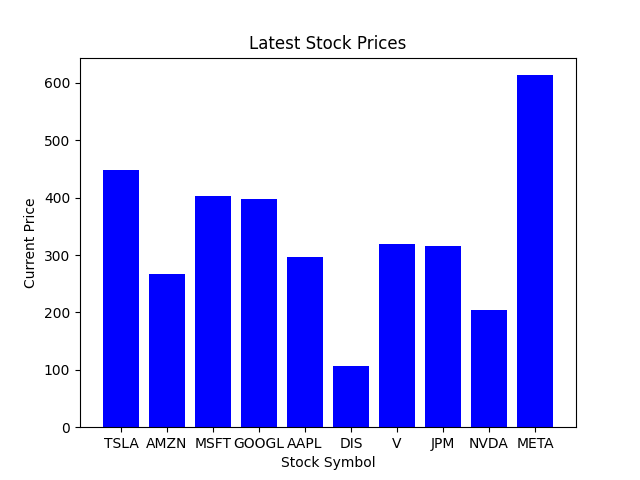
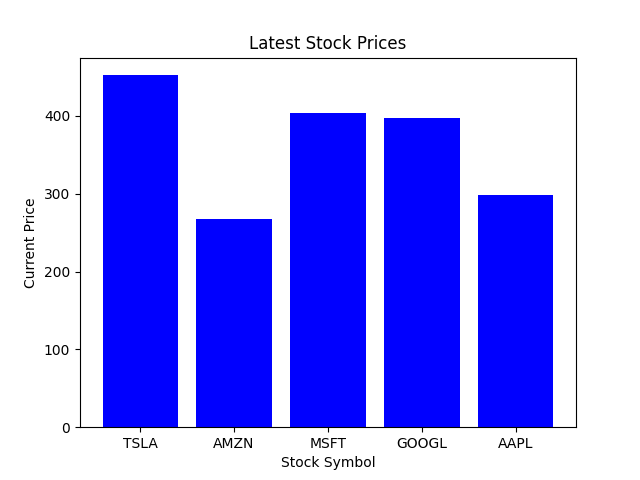
added a logger utils

diff --git a/src/utils/logger.py b/src/utils/logger.py
@@ -1,0 +1,13 @@
+import os
+import logging
+
+os.makedirs('Logs', exist_ok=True)
+
+logging.basicConfig(
+    filename="Logs/pipeline.log",
+    level=logging.INFO,
+    format="%(asctime)s - %(levelname)s - %(message)s",
+    
+)
+
+logger = logging.getLogger(__name__)

diff --git a/src/pipeline/stock_pipeline.py b/src/pipeline/stock_pipeline.py
@@ -1,7 +1,7 @@
 from src.api.finnhub_client import get_stock_quote
 from src.db.stock_repository import get_latest_quotes_df, insert_stock_quote
 from src.transformations.quote_transformer import transform_stock_quote
-
+from src.utils.logger import logger
 
 ## Ingest stock quotes for a list of symbols through the API, transform them, and store in the database
 def ingest_stock_quotes(symbols):
@@ -9,4 +9,4 @@ def ingest_stock_quotes(symbols):
         raw_quote = get_stock_quote(symbol)
         quote_data = transform_stock_quote(symbol, raw_quote)
         insert_stock_quote(quote_data)
-        print(f"Inserted quote for {symbol}")
+        logger.info(f"Ingested quote for {symbol}")

diff --git a/README.md b/README.md
@@ -14,3 +14,4 @@ Pipeline using Finnhub API + Python + PostgreSQL.
 - python-dotenv, 
 - sqlalchemy
 - psycopg2-binary 
+- matplotlib